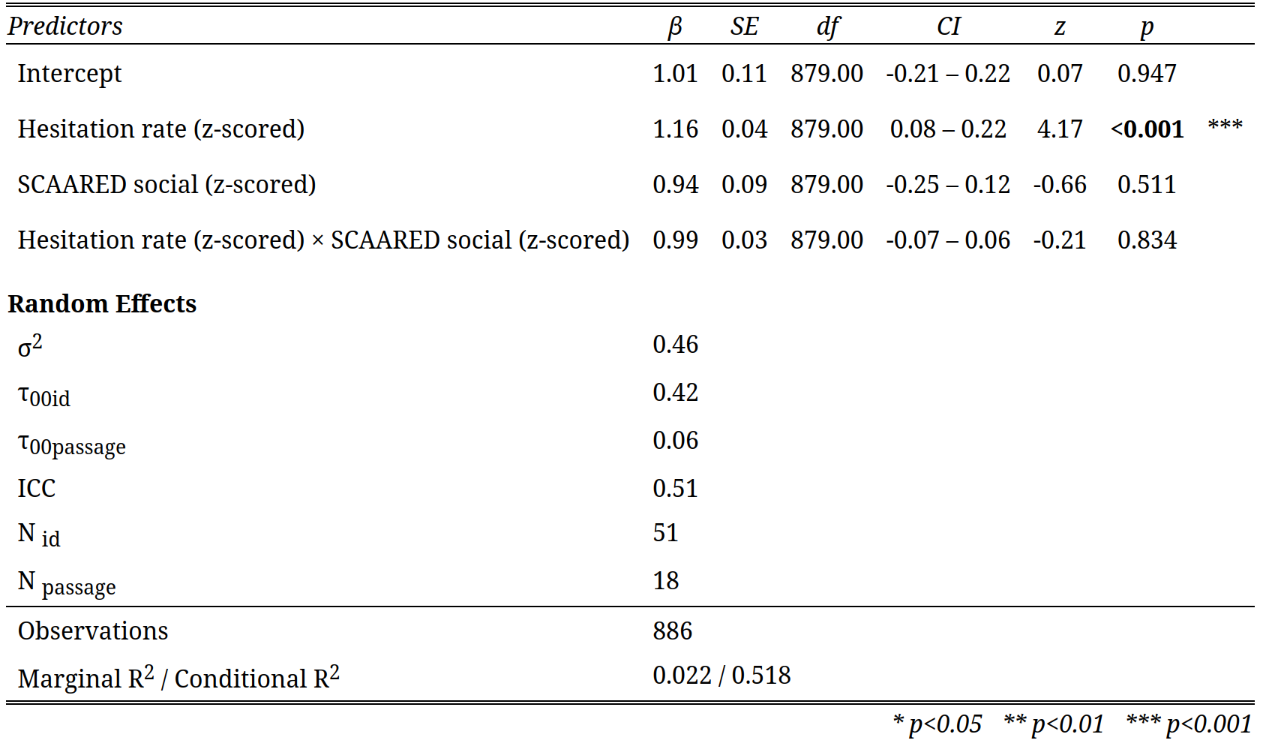
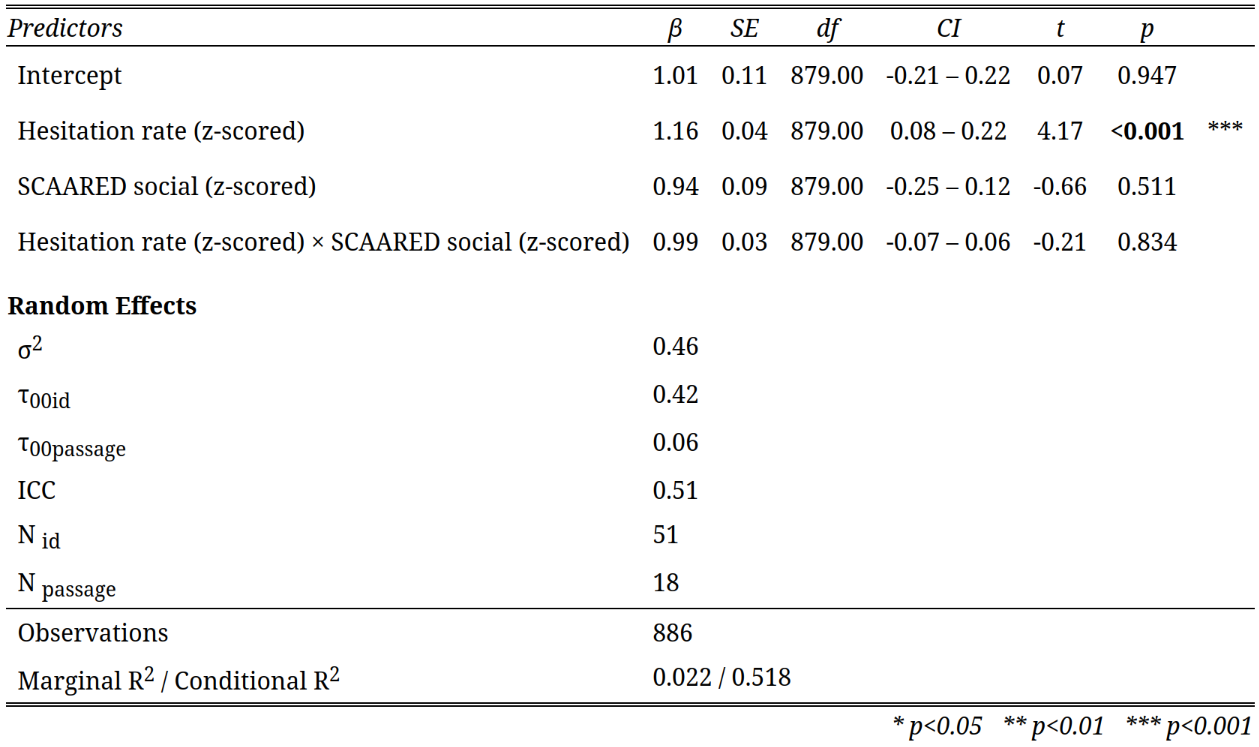
Tables for passage-level ctrl analyses. Correct test stat to "t" (not "z")

diff --git a/results/tables/control-analyses/sex/table_sex_model11_z_scored.html b/results/tables/control-analyses/sex/table_sex_model11_z_scored.html
@@ -56,49 +56,37 @@ td {  }
   </tr>
 <tr>
 <td class="tdata firsttablecol col1">Intercept</td>
-    <td class="tdata centeralign modelcolumn1 col2">1.01
+    <td class="tdata centeralign modelcolumn1 col2">0.94
 </td>
-    <td class="tdata centeralign modelcolumn1 col3">0.11</td>
-    <td class="tdata centeralign modelcolumn1 col4">879.00</td>
-    <td class="tdata centeralign modelcolumn1 col5">-0.21 – 0.22</td>
-    <td class="tdata centeralign modelcolumn1 col6">0.07</td>
-    <td class="tdata centeralign modelcolumn1 col7">0.947</td>
+    <td class="tdata centeralign modelcolumn1 col3">0.21</td>
+    <td class="tdata centeralign modelcolumn1 col4">880.00</td>
+    <td class="tdata centeralign modelcolumn1 col5">0.60 – 1.46</td>
+    <td class="tdata centeralign modelcolumn1 col6">-0.27</td>
+    <td class="tdata centeralign modelcolumn1 col7">0.787</td>
     <td class="tdata centeralign modelcolumn1 col8">
-</td>
-</tr>
-<tr>
-<td class="tdata firsttablecol col1">Hesitation rate (z-scored)</td>
-    <td class="tdata centeralign modelcolumn1 col2">1.16
-</td>
-    <td class="tdata centeralign modelcolumn1 col3">0.04</td>
-    <td class="tdata centeralign modelcolumn1 col4">879.00</td>
-    <td class="tdata centeralign modelcolumn1 col5">0.08 – 0.22</td>
-    <td class="tdata centeralign modelcolumn1 col6">4.17</td>
-    <td class="tdata centeralign modelcolumn1 col7"><strong>&lt;0.001</strong></td>
-    <td class="tdata centeralign modelcolumn1 col8">***
 </td>
 </tr>
 <tr>
 <td class="tdata firsttablecol col1">SCAARED social (z-scored)</td>
-    <td class="tdata centeralign modelcolumn1 col2">0.94
+    <td class="tdata centeralign modelcolumn1 col2">1.27
 </td>
-    <td class="tdata centeralign modelcolumn1 col3">0.09</td>
-    <td class="tdata centeralign modelcolumn1 col4">879.00</td>
-    <td class="tdata centeralign modelcolumn1 col5">-0.25 – 0.12</td>
-    <td class="tdata centeralign modelcolumn1 col6">-0.66</td>
-    <td class="tdata centeralign modelcolumn1 col7">0.511</td>
-    <td class="tdata centeralign modelcolumn1 col8">
+    <td class="tdata centeralign modelcolumn1 col3">0.13</td>
+    <td class="tdata centeralign modelcolumn1 col4">880.00</td>
+    <td class="tdata centeralign modelcolumn1 col5">1.04 – 1.56</td>
+    <td class="tdata centeralign modelcolumn1 col6">2.29</td>
+    <td class="tdata centeralign modelcolumn1 col7"><strong>0.022</strong></td>
+    <td class="tdata centeralign modelcolumn1 col8">*
 </td>
 </tr>
 <tr>
-<td class="tdata firsttablecol col1">Hesitation rate (z-scored) × SCAARED social (z-scored)</td>
-    <td class="tdata centeralign modelcolumn1 col2">0.99
+<td class="tdata firsttablecol col1">Male sex</td>
+    <td class="tdata centeralign modelcolumn1 col2">0.92
 </td>
-    <td class="tdata centeralign modelcolumn1 col3">0.03</td>
-    <td class="tdata centeralign modelcolumn1 col4">879.00</td>
-    <td class="tdata centeralign modelcolumn1 col5">-0.07 – 0.06</td>
-    <td class="tdata centeralign modelcolumn1 col6">-0.21</td>
-    <td class="tdata centeralign modelcolumn1 col7">0.834</td>
+    <td class="tdata centeralign modelcolumn1 col3">0.20</td>
+    <td class="tdata centeralign modelcolumn1 col4">880.00</td>
+    <td class="tdata centeralign modelcolumn1 col5">0.59 – 1.42</td>
+    <td class="tdata centeralign modelcolumn1 col6">-0.38</td>
+    <td class="tdata centeralign modelcolumn1 col7">0.707</td>
     <td class="tdata centeralign modelcolumn1 col8">
 </td>
 </tr>
@@ -108,23 +96,23 @@ td {  }
 <tr>
 <td class="tdata leftalign summary">σ<sup>2</sup>
 </td>
-    <td class="tdata summary summarydata" colspan="7">0.46</td>
+    <td class="tdata summary summarydata" colspan="7">0.44</td>
   </tr>
 <tr>
 <td class="tdata leftalign summary">τ<sub>00</sub><sub>id</sub>
 </td>
-    <td class="tdata summary summarydata" colspan="7">0.42</td>
+    <td class="tdata summary summarydata" colspan="7">0.53</td>
 
   </tr>
 <tr>
 <td class="tdata leftalign summary">τ<sub>00</sub><sub>passage</sub>
 </td>
-    <td class="tdata summary summarydata" colspan="7">0.06</td>
+    <td class="tdata summary summarydata" colspan="7">0.02</td>
 
   </tr>
 <tr>
 <td class="tdata leftalign summary">ICC</td>
-    <td class="tdata summary summarydata" colspan="7">0.51</td>
+    <td class="tdata summary summarydata" colspan="7">0.56</td>
 
   </tr>
 <tr>
@@ -145,7 +133,7 @@ td {  }
 <tr>
 <td class="tdata leftalign summary">Marginal R<sup>2</sup> / Conditional R<sup>2</sup>
 </td>
-    <td class="tdata summary summarydata" colspan="7">0.022 / 0.518</td>
+    <td class="tdata summary summarydata" colspan="7">0.057 / 0.583</td>
   </tr>
 <tr>
 <td colspan="8" class="footnote">* p&lt;0.05   ** p&lt;0.01   *** p&lt;0.001</td>

diff --git a/results/tables/control-analyses/age/table_age_model11_z_scored.html b/results/tables/control-analyses/age/table_age_model11_z_scored.html
@@ -59,47 +59,35 @@ td {  }
     <td class="tdata centeralign modelcolumn1 col2">1.01
 </td>
     <td class="tdata centeralign modelcolumn1 col3">0.11</td>
-    <td class="tdata centeralign modelcolumn1 col4">879.00</td>
-    <td class="tdata centeralign modelcolumn1 col5">-0.21 – 0.22</td>
-    <td class="tdata centeralign modelcolumn1 col6">0.07</td>
-    <td class="tdata centeralign modelcolumn1 col7">0.947</td>
+    <td class="tdata centeralign modelcolumn1 col4">880.00</td>
+    <td class="tdata centeralign modelcolumn1 col5">0.82 – 1.24</td>
+    <td class="tdata centeralign modelcolumn1 col6">0.10</td>
+    <td class="tdata centeralign modelcolumn1 col7">0.917</td>
     <td class="tdata centeralign modelcolumn1 col8">
-</td>
-</tr>
-<tr>
-<td class="tdata firsttablecol col1">Hesitation rate (z-scored)</td>
-    <td class="tdata centeralign modelcolumn1 col2">1.16
-</td>
-    <td class="tdata centeralign modelcolumn1 col3">0.04</td>
-    <td class="tdata centeralign modelcolumn1 col4">879.00</td>
-    <td class="tdata centeralign modelcolumn1 col5">0.08 – 0.22</td>
-    <td class="tdata centeralign modelcolumn1 col6">4.17</td>
-    <td class="tdata centeralign modelcolumn1 col7"><strong>&lt;0.001</strong></td>
-    <td class="tdata centeralign modelcolumn1 col8">***
 </td>
 </tr>
 <tr>
 <td class="tdata firsttablecol col1">SCAARED social (z-scored)</td>
-    <td class="tdata centeralign modelcolumn1 col2">0.94
+    <td class="tdata centeralign modelcolumn1 col2">1.25
 </td>
-    <td class="tdata centeralign modelcolumn1 col3">0.09</td>
-    <td class="tdata centeralign modelcolumn1 col4">879.00</td>
-    <td class="tdata centeralign modelcolumn1 col5">-0.25 – 0.12</td>
-    <td class="tdata centeralign modelcolumn1 col6">-0.66</td>
-    <td class="tdata centeralign modelcolumn1 col7">0.511</td>
-    <td class="tdata centeralign modelcolumn1 col8">
+    <td class="tdata centeralign modelcolumn1 col3">0.12</td>
+    <td class="tdata centeralign modelcolumn1 col4">880.00</td>
+    <td class="tdata centeralign modelcolumn1 col5">1.03 – 1.52</td>
+    <td class="tdata centeralign modelcolumn1 col6">2.26</td>
+    <td class="tdata centeralign modelcolumn1 col7"><strong>0.024</strong></td>
+    <td class="tdata centeralign modelcolumn1 col8">*
 </td>
 </tr>
 <tr>
-<td class="tdata firsttablecol col1">Hesitation rate (z-scored) × SCAARED social (z-scored)</td>
-    <td class="tdata centeralign modelcolumn1 col2">0.99
+<td class="tdata firsttablecol col1">Age</td>
+    <td class="tdata centeralign modelcolumn1 col2">1.29
 </td>
-    <td class="tdata centeralign modelcolumn1 col3">0.03</td>
-    <td class="tdata centeralign modelcolumn1 col4">879.00</td>
-    <td class="tdata centeralign modelcolumn1 col5">-0.07 – 0.06</td>
-    <td class="tdata centeralign modelcolumn1 col6">-0.21</td>
-    <td class="tdata centeralign modelcolumn1 col7">0.834</td>
-    <td class="tdata centeralign modelcolumn1 col8">
+    <td class="tdata centeralign modelcolumn1 col3">0.13</td>
+    <td class="tdata centeralign modelcolumn1 col4">880.00</td>
+    <td class="tdata centeralign modelcolumn1 col5">1.06 – 1.56</td>
+    <td class="tdata centeralign modelcolumn1 col6">2.57</td>
+    <td class="tdata centeralign modelcolumn1 col7"><strong>0.010</strong></td>
+    <td class="tdata centeralign modelcolumn1 col8">*
 </td>
 </tr>
 <tr>
@@ -108,23 +96,23 @@ td {  }
 <tr>
 <td class="tdata leftalign summary">σ<sup>2</sup>
 </td>
-    <td class="tdata summary summarydata" colspan="7">0.46</td>
+    <td class="tdata summary summarydata" colspan="7">0.44</td>
   </tr>
 <tr>
 <td class="tdata leftalign summary">τ<sub>00</sub><sub>id</sub>
 </td>
-    <td class="tdata summary summarydata" colspan="7">0.42</td>
+    <td class="tdata summary summarydata" colspan="7">0.47</td>
 
   </tr>
 <tr>
 <td class="tdata leftalign summary">τ<sub>00</sub><sub>passage</sub>
 </td>
-    <td class="tdata summary summarydata" colspan="7">0.06</td>
+    <td class="tdata summary summarydata" colspan="7">0.02</td>
 
   </tr>
 <tr>
 <td class="tdata leftalign summary">ICC</td>
-    <td class="tdata summary summarydata" colspan="7">0.51</td>
+    <td class="tdata summary summarydata" colspan="7">0.53</td>
 
   </tr>
 <tr>
@@ -145,7 +133,7 @@ td {  }
 <tr>
 <td class="tdata leftalign summary">Marginal R<sup>2</sup> / Conditional R<sup>2</sup>
 </td>
-    <td class="tdata summary summarydata" colspan="7">0.022 / 0.518</td>
+    <td class="tdata summary summarydata" colspan="7">0.116 / 0.581</td>
   </tr>
 <tr>
 <td colspan="8" class="footnote">* p&lt;0.05   ** p&lt;0.01   *** p&lt;0.001</td>

diff --git a/results/tables/control-analyses/sex/table_sex_f_model24_z_scored.html b/results/tables/control-analyses/sex/table_sex_f_model24_z_scored.html
@@ -56,13 +56,13 @@ td {  }
   </tr>
 <tr>
 <td class="tdata firsttablecol col1">Intercept</td>
-    <td class="tdata centeralign modelcolumn1 col2">1.01
+    <td class="tdata centeralign modelcolumn1 col2">0.85
 </td>
-    <td class="tdata centeralign modelcolumn1 col3">0.11</td>
-    <td class="tdata centeralign modelcolumn1 col4">879.00</td>
-    <td class="tdata centeralign modelcolumn1 col5">-0.21 – 0.22</td>
-    <td class="tdata centeralign modelcolumn1 col6">0.07</td>
-    <td class="tdata centeralign modelcolumn1 col7">0.947</td>
+    <td class="tdata centeralign modelcolumn1 col3">0.18</td>
+    <td class="tdata centeralign modelcolumn1 col4">878.00</td>
+    <td class="tdata centeralign modelcolumn1 col5">0.57 – 1.28</td>
+    <td class="tdata centeralign modelcolumn1 col6">-0.78</td>
+    <td class="tdata centeralign modelcolumn1 col7">0.438</td>
     <td class="tdata centeralign modelcolumn1 col8">
 </td>
 </tr>
@@ -71,9 +71,9 @@ td {  }
     <td class="tdata centeralign modelcolumn1 col2">1.16
 </td>
     <td class="tdata centeralign modelcolumn1 col3">0.04</td>
-    <td class="tdata centeralign modelcolumn1 col4">879.00</td>
-    <td class="tdata centeralign modelcolumn1 col5">0.08 – 0.22</td>
-    <td class="tdata centeralign modelcolumn1 col6">4.17</td>
+    <td class="tdata centeralign modelcolumn1 col4">878.00</td>
+    <td class="tdata centeralign modelcolumn1 col5">1.08 – 1.24</td>
+    <td class="tdata centeralign modelcolumn1 col6">4.15</td>
     <td class="tdata centeralign modelcolumn1 col7"><strong>&lt;0.001</strong></td>
     <td class="tdata centeralign modelcolumn1 col8">***
 </td>
@@ -83,10 +83,22 @@ td {  }
     <td class="tdata centeralign modelcolumn1 col2">0.94
 </td>
     <td class="tdata centeralign modelcolumn1 col3">0.09</td>
-    <td class="tdata centeralign modelcolumn1 col4">879.00</td>
-    <td class="tdata centeralign modelcolumn1 col5">-0.25 – 0.12</td>
-    <td class="tdata centeralign modelcolumn1 col6">-0.66</td>
-    <td class="tdata centeralign modelcolumn1 col7">0.511</td>
+    <td class="tdata centeralign modelcolumn1 col4">878.00</td>
+    <td class="tdata centeralign modelcolumn1 col5">0.78 – 1.13</td>
+    <td class="tdata centeralign modelcolumn1 col6">-0.70</td>
+    <td class="tdata centeralign modelcolumn1 col7">0.485</td>
+    <td class="tdata centeralign modelcolumn1 col8">
+</td>
+</tr>
+<tr>
+<td class="tdata firsttablecol col1">Male sex</td>
+    <td class="tdata centeralign modelcolumn1 col2">0.83
+</td>
+    <td class="tdata centeralign modelcolumn1 col3">0.16</td>
+    <td class="tdata centeralign modelcolumn1 col4">878.00</td>
+    <td class="tdata centeralign modelcolumn1 col5">0.56 – 1.22</td>
+    <td class="tdata centeralign modelcolumn1 col6">-0.96</td>
+    <td class="tdata centeralign modelcolumn1 col7">0.338</td>
     <td class="tdata centeralign modelcolumn1 col8">
 </td>
 </tr>
@@ -95,10 +107,10 @@ td {  }
     <td class="tdata centeralign modelcolumn1 col2">0.99
 </td>
     <td class="tdata centeralign modelcolumn1 col3">0.03</td>
-    <td class="tdata centeralign modelcolumn1 col4">879.00</td>
-    <td class="tdata centeralign modelcolumn1 col5">-0.07 – 0.06</td>
-    <td class="tdata centeralign modelcolumn1 col6">-0.21</td>
-    <td class="tdata centeralign modelcolumn1 col7">0.834</td>
+    <td class="tdata centeralign modelcolumn1 col4">878.00</td>
+    <td class="tdata centeralign modelcolumn1 col5">0.93 – 1.06</td>
+    <td class="tdata centeralign modelcolumn1 col6">-0.20</td>
+    <td class="tdata centeralign modelcolumn1 col7">0.845</td>
     <td class="tdata centeralign modelcolumn1 col8">
 </td>
 </tr>
@@ -145,7 +157,7 @@ td {  }
 <tr>
 <td class="tdata leftalign summary">Marginal R<sup>2</sup> / Conditional R<sup>2</sup>
 </td>
-    <td class="tdata summary summarydata" colspan="7">0.022 / 0.518</td>
+    <td class="tdata summary summarydata" colspan="7">0.031 / 0.523</td>
   </tr>
 <tr>
 <td colspan="8" class="footnote">* p&lt;0.05   ** p&lt;0.01   *** p&lt;0.001</td>

diff --git a/results/tables/control-analyses/age/table_age_f_model24_z_scored.html b/results/tables/control-analyses/age/table_age_f_model24_z_scored.html
@@ -59,10 +59,10 @@ td {  }
     <td class="tdata centeralign modelcolumn1 col2">1.01
 </td>
     <td class="tdata centeralign modelcolumn1 col3">0.11</td>
-    <td class="tdata centeralign modelcolumn1 col4">879.00</td>
-    <td class="tdata centeralign modelcolumn1 col5">-0.21 – 0.22</td>
+    <td class="tdata centeralign modelcolumn1 col4">878.00</td>
+    <td class="tdata centeralign modelcolumn1 col5">0.81 – 1.25</td>
     <td class="tdata centeralign modelcolumn1 col6">0.07</td>
-    <td class="tdata centeralign modelcolumn1 col7">0.947</td>
+    <td class="tdata centeralign modelcolumn1 col7">0.946</td>
     <td class="tdata centeralign modelcolumn1 col8">
 </td>
 </tr>
@@ -71,9 +71,9 @@ td {  }
     <td class="tdata centeralign modelcolumn1 col2">1.16
 </td>
     <td class="tdata centeralign modelcolumn1 col3">0.04</td>
-    <td class="tdata centeralign modelcolumn1 col4">879.00</td>
-    <td class="tdata centeralign modelcolumn1 col5">0.08 – 0.22</td>
-    <td class="tdata centeralign modelcolumn1 col6">4.17</td>
+    <td class="tdata centeralign modelcolumn1 col4">878.00</td>
+    <td class="tdata centeralign modelcolumn1 col5">1.08 – 1.24</td>
+    <td class="tdata centeralign modelcolumn1 col6">4.15</td>
     <td class="tdata centeralign modelcolumn1 col7"><strong>&lt;0.001</strong></td>
     <td class="tdata centeralign modelcolumn1 col8">***
 </td>
@@ -83,10 +83,22 @@ td {  }
     <td class="tdata centeralign modelcolumn1 col2">0.94
 </td>
     <td class="tdata centeralign modelcolumn1 col3">0.09</td>
-    <td class="tdata centeralign modelcolumn1 col4">879.00</td>
-    <td class="tdata centeralign modelcolumn1 col5">-0.25 – 0.12</td>
-    <td class="tdata centeralign modelcolumn1 col6">-0.66</td>
-    <td class="tdata centeralign modelcolumn1 col7">0.511</td>
+    <td class="tdata centeralign modelcolumn1 col4">878.00</td>
+    <td class="tdata centeralign modelcolumn1 col5">0.78 – 1.13</td>
+    <td class="tdata centeralign modelcolumn1 col6">-0.64</td>
+    <td class="tdata centeralign modelcolumn1 col7">0.525</td>
+    <td class="tdata centeralign modelcolumn1 col8">
+</td>
+</tr>
+<tr>
+<td class="tdata firsttablecol col1">Age</td>
+    <td class="tdata centeralign modelcolumn1 col2">0.98
+</td>
+    <td class="tdata centeralign modelcolumn1 col3">0.09</td>
+    <td class="tdata centeralign modelcolumn1 col4">878.00</td>
+    <td class="tdata centeralign modelcolumn1 col5">0.82 – 1.18</td>
+    <td class="tdata centeralign modelcolumn1 col6">-0.18</td>
+    <td class="tdata centeralign modelcolumn1 col7">0.854</td>
     <td class="tdata centeralign modelcolumn1 col8">
 </td>
 </tr>
@@ -95,10 +107,10 @@ td {  }
     <td class="tdata centeralign modelcolumn1 col2">0.99
 </td>
     <td class="tdata centeralign modelcolumn1 col3">0.03</td>
-    <td class="tdata centeralign modelcolumn1 col4">879.00</td>
-    <td class="tdata centeralign modelcolumn1 col5">-0.07 – 0.06</td>
+    <td class="tdata centeralign modelcolumn1 col4">878.00</td>
+    <td class="tdata centeralign modelcolumn1 col5">0.93 – 1.06</td>
     <td class="tdata centeralign modelcolumn1 col6">-0.21</td>
-    <td class="tdata centeralign modelcolumn1 col7">0.834</td>
+    <td class="tdata centeralign modelcolumn1 col7">0.835</td>
     <td class="tdata centeralign modelcolumn1 col8">
 </td>
 </tr>
@@ -113,7 +125,7 @@ td {  }
 <tr>
 <td class="tdata leftalign summary">τ<sub>00</sub><sub>id</sub>
 </td>
-    <td class="tdata summary summarydata" colspan="7">0.42</td>
+    <td class="tdata summary summarydata" colspan="7">0.43</td>
 
   </tr>
 <tr>
@@ -145,7 +157,7 @@ td {  }
 <tr>
 <td class="tdata leftalign summary">Marginal R<sup>2</sup> / Conditional R<sup>2</sup>
 </td>
-    <td class="tdata summary summarydata" colspan="7">0.022 / 0.518</td>
+    <td class="tdata summary summarydata" colspan="7">0.020 / 0.522</td>
   </tr>
 <tr>
 <td colspan="8" class="footnote">* p&lt;0.05   ** p&lt;0.01   *** p&lt;0.001</td>

diff --git a/results/tables/non-sig/table_model8_z_scored.html b/results/tables/non-sig/table_model8_z_scored.html
@@ -50,7 +50,7 @@ td {  }
     <td class="depvarheadnodv firsttablerow col3">SE</td>
     <td class="depvarheadnodv firsttablerow col4">df</td>
     <td class="depvarheadnodv firsttablerow col5">CI</td>
-    <td class="depvarheadnodv firsttablerow col6">z</td>
+    <td class="depvarheadnodv firsttablerow col6">t</td>
     <td class="depvarheadnodv firsttablerow col7">p</td>
     <td class="depvarheadnodv firsttablerow col8"></td>
   </tr>
